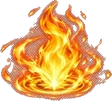
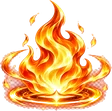
Batalha: fundo desfocado e escuro, fogo novo no Queimar, Queimar sem invadir a arena, sem botão de girar, ícone da Batalha centralizado
Claude-Session: https://claude.ai/code/session_019HhPrDhRAN5bYY2dqojsma

diff --git a/src/ui/style.css b/src/ui/style.css
@@ -2245,3 +2245,17 @@ body.batalha{--scene:url('./img/arena-fundo.webp')}
 .hub-v2 .hub-stats>span{display:inline-flex;align-items:center;gap:.4cqh;background:#0007;border:1px solid #e9c46a66;border-radius:999px;padding:0 1cqh;font-size:min(3.2cqh,12.5px)}
 .hub-v2 .hub-stats b{font-weight:900;color:#fff3d0;font-family:inherit;font-size:inherit;text-shadow:none;display:inline}
 .hub-v2 .hub-stats .ic{height:1.3em}
+
+/* batalha: fundo desfocado e mais escuro para a arena se destacar */
+body.batalha:not(.rot)::before{background:var(--scene) center top/cover no-repeat;filter:blur(3px) brightness(.45) saturate(.9);inset:-12px}
+body.batalha.rot #app{background:var(--page)}
+body.batalha.rot #app::before{content:'';position:absolute;inset:-12px;z-index:-1;pointer-events:none;background:var(--scene) center top/cover no-repeat;filter:blur(3px) brightness(.45) saturate(.9)}
+/* botão Batalha: ícone centralizado em cima do texto */
+.acts .btn.go[data-act=punch]{display:flex;flex-direction:column;align-items:center;justify-content:center;text-align:center}
+.acts .btn.go[data-act=punch] .ico{margin:0;display:block;line-height:1}
+.acts .btn.go[data-act=punch] .ico .ic-bt{margin:0;vertical-align:0}
+/* queimar e desfazer lado a lado, baixinhos, sem invadir a arena */
+.acts-esq,.land .acts-esq{flex-direction:row;align-items:flex-end;width:auto;gap:5px;margin-bottom:4px;align-self:flex-end}
+.acts-esq .btn.rc,.land .acts-esq .btn.rc{width:76px;min-height:0;height:46px;padding:2px 4px;display:flex;flex-direction:column;align-items:center;justify-content:center;font-size:12px;line-height:1.05;gap:1px}
+.acts-esq .btn.rc .ic-bt{height:20px;margin:0}
+.acts-esq .btn.un,.land .acts-esq .btn.un{width:36px;min-height:0;height:46px;padding:0;font-size:17px}

diff --git a/src/ui/desenho.ts b/src/ui/desenho.ts
@@ -268,7 +268,7 @@ const BANDEIRA = ic('bandeira', 'ic-flag');
 
 function hudHtml(s: GameState, nivel?: string): string {
   return `<div class="hud">${heroCard(s, 'p')}`
-    + `<div class="vs"><span class="vs-bts"><button class="rotbtn" data-act="rot" aria-label="${T.alternarDeitado}">⟳</button><button class="rotbtn" data-act="som" aria-label="${T.som}" title="${T.som}">${iconeSom()}</button></span><span class="vsb">VS</span><span class="rd">${T.rodadaN(s.round)}<button class="infobtn" data-act="info" aria-label="${T.info}">i</button></span></div>`
+    + `<div class="vs"><span class="vs-bts"><button class="rotbtn" data-act="som" aria-label="${T.som}" title="${T.som}">${iconeSom()}</button></span><span class="vsb">VS</span><span class="rd">${T.rodadaN(s.round)}<button class="infobtn" data-act="info" aria-label="${T.info}">i</button></span></div>`
     + `${heroCard(s, 'e', nivel)}</div>`;
 }
 
